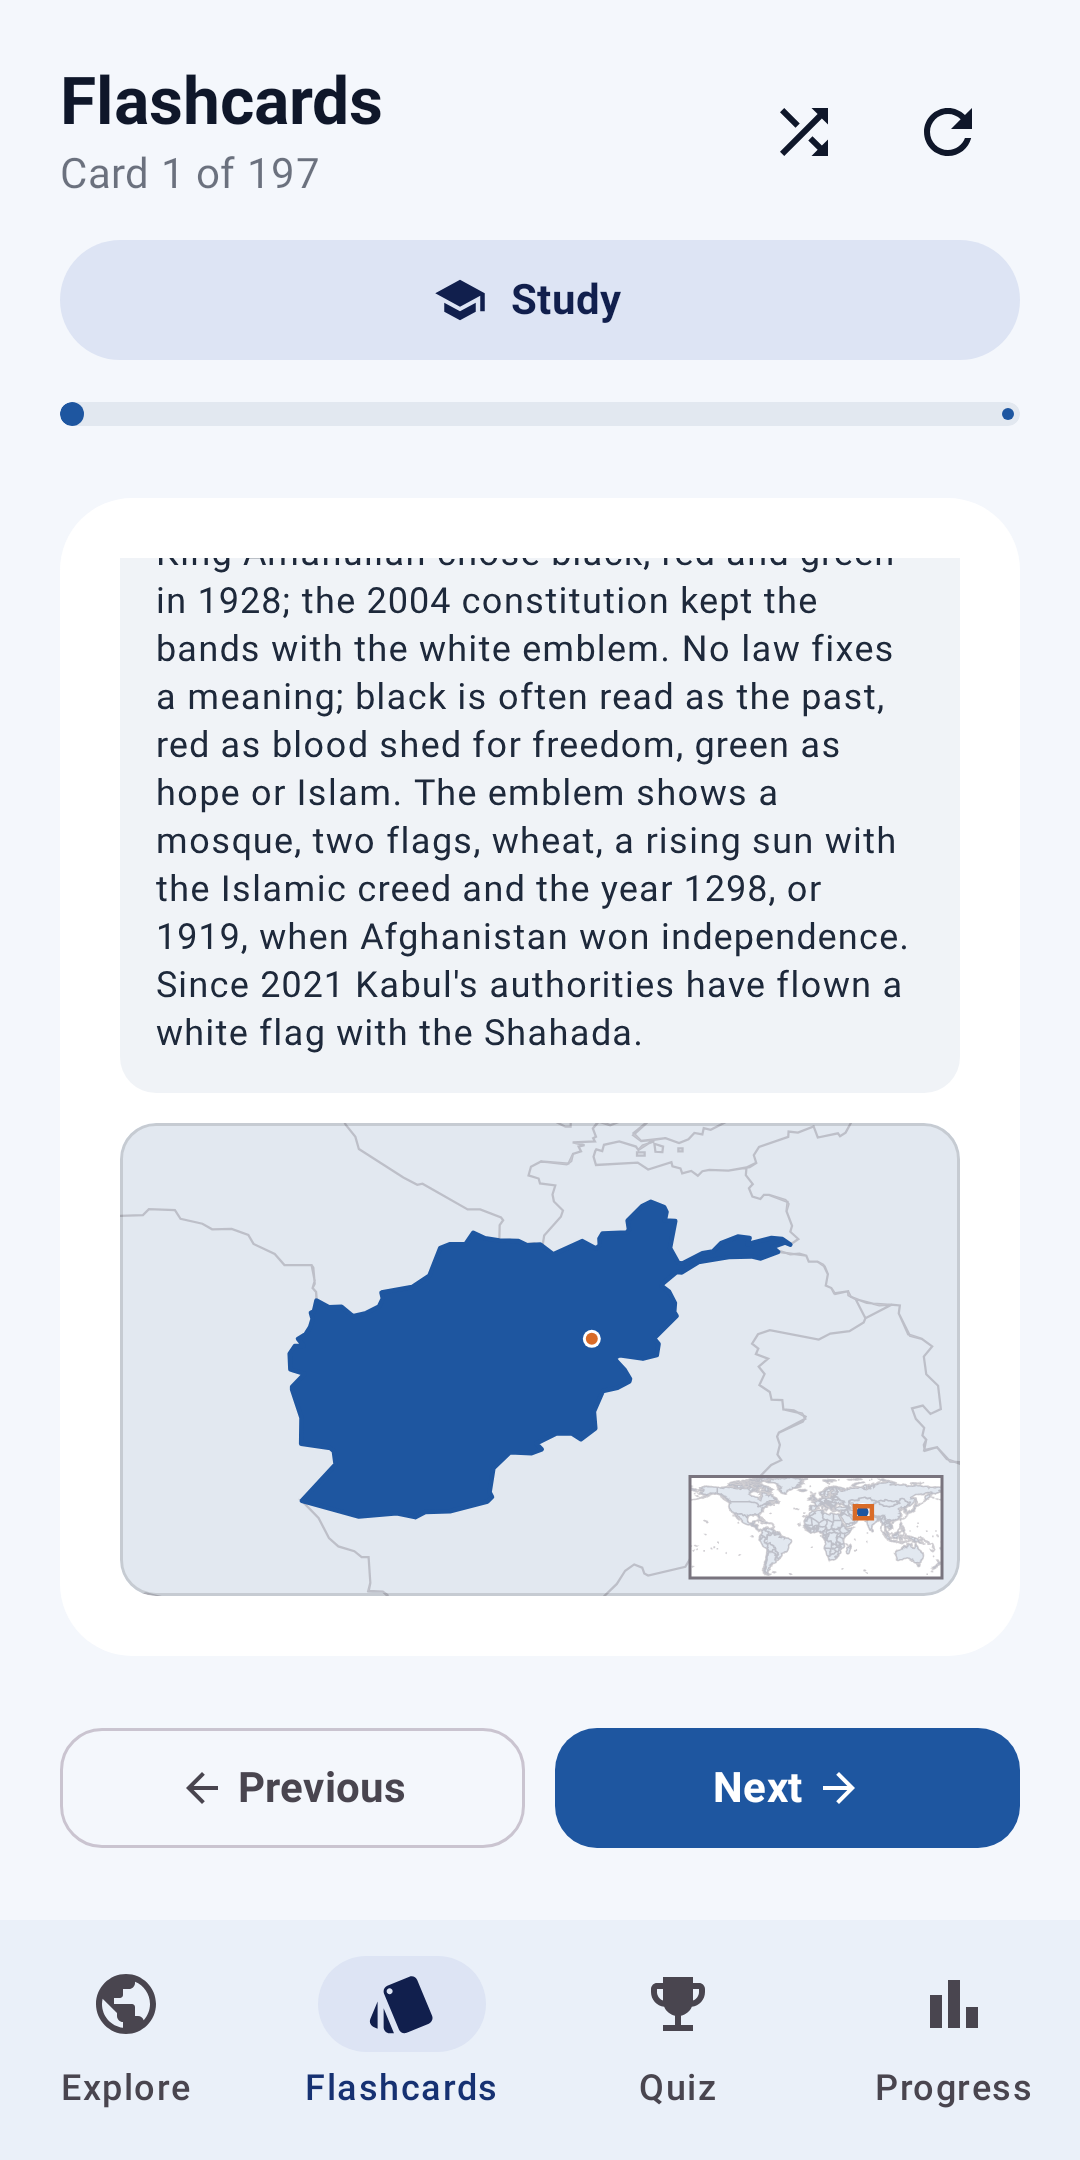
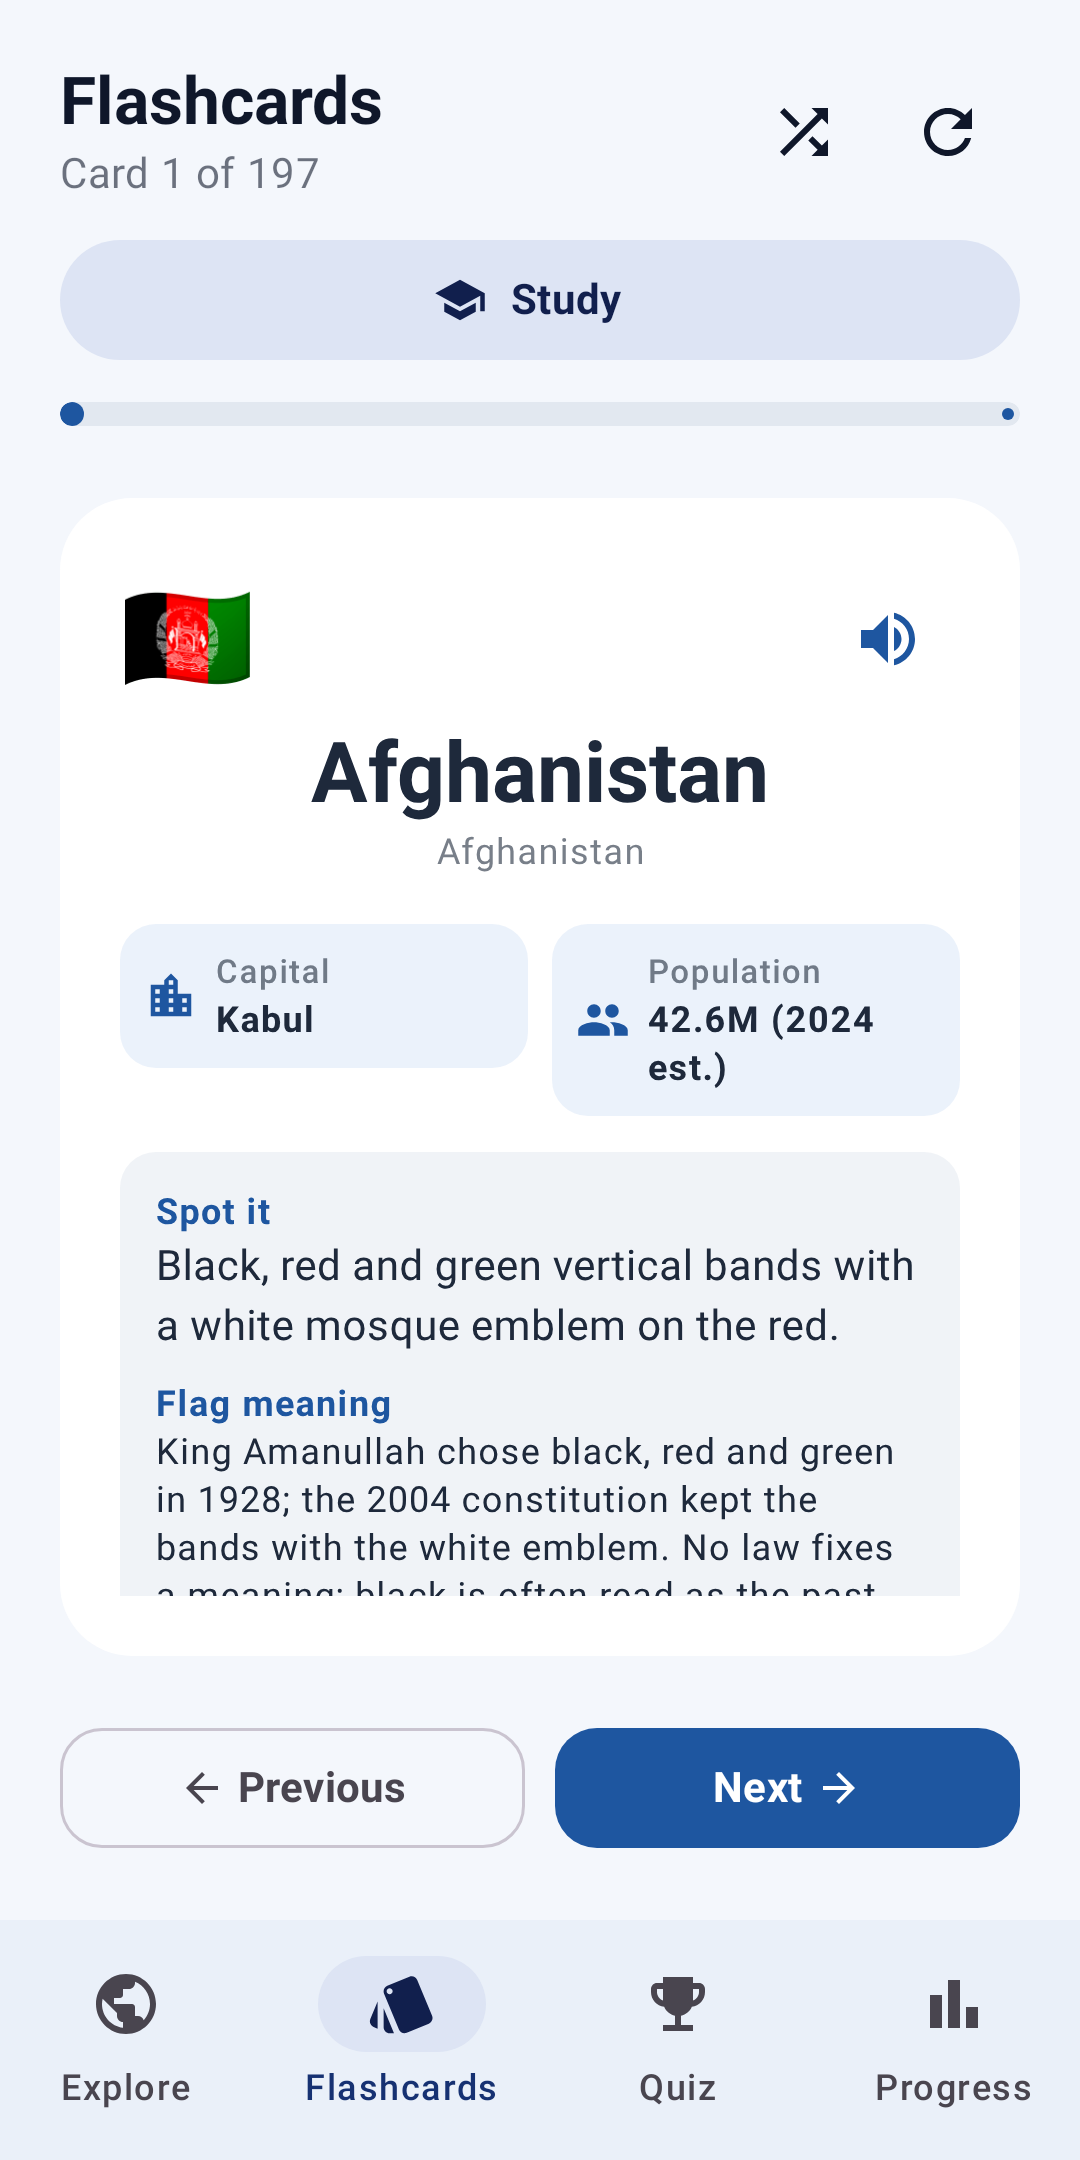
Tidy the store pictures and their check after review
The flashcard shot shows the top of the card's back, with the read-aloud
button ready instead of a spinner; the feature graphic counts the
countries from the catalog and drops "no ads"; store-check takes tablet
shots up to 7,680 px as Play does; the version test reruns when only the
listing or the release notes change.

Claude-Session: https://claude.ai/code/session_01RLSQSDuLv1FnhDenX77LVB

Changed region(s): [[0.0917, 0.2481, 0.8861, 0.7444], [0.7639, 0.3722, 0.825, 0.4032]]

diff --git a/app/src/test/java/com/example/ScreenshotsTest.kt b/app/src/test/java/com/example/ScreenshotsTest.kt
@@ -14,6 +14,7 @@ import com.example.data.local.QuizScoreEntity
 import com.example.data.local.AppDatabase
 import androidx.compose.ui.test.assertIsDisplayed
 import android.graphics.Bitmap
+import android.speech.tts.TextToSpeech
 import androidx.compose.ui.test.junit4.v2.createAndroidComposeRule
 import androidx.compose.ui.test.onNodeWithContentDescription
 import androidx.compose.ui.test.onNodeWithTag
@@ -32,12 +33,14 @@ import com.example.support.drawWindow
 import com.example.support.writePng
 import com.example.support.openTab
 import java.io.File
+import java.util.Locale
 import org.junit.Rule
 import org.junit.Test
 import org.junit.rules.RuleChain
 import org.junit.runner.RunWith
 import org.robolectric.RobolectricTestRunner
 import org.robolectric.shadows.ShadowDialog
+import org.robolectric.shadows.ShadowTextToSpeech
 import android.view.View
 import org.robolectric.annotation.Config
 import org.robolectric.annotation.GraphicsMode
@@ -131,6 +134,7 @@ class ScreenshotsTest {
     @Test
     @Config(qualifiers = "w360dp-h720dp-xxhdpi")
     fun storePhone() {
+        ShadowTextToSpeech.addLanguageAvailability(Locale.US)
         rule.waitForIdle()
         saveStore("01_explore")
 
@@ -169,11 +173,10 @@ class ScreenshotsTest {
         rule.openTab("flashcards")
         rule.onNodeWithTag("flashcard_flip_card").performClick()
         rule.waitForIdle()
-        rule.awaitDelivered { WorldMapData.peek() != null }
-        if (rule.onAllNodesWithTag("flashcard_map", useUnmergedTree = true).fetchSemanticsNodes().isNotEmpty()) {
-            rule.onNodeWithTag("flashcard_map", useUnmergedTree = true).performScrollTo()
-            rule.waitForIdle()
-        }
+        // The engine starts as the screen shows; without its answer the read-aloud button would be a spinner.
+        ShadowTextToSpeech.getLastTextToSpeechInstance()?.let { shadowOf(it).onInitListener.onInit(TextToSpeech.SUCCESS) }
+        rule.waitForIdle()
+        // The top of the back, the name with its capital and population: the map has two shots of its own.
         saveStore("05_flashcard_back")
 
         seedProgress(viewModel)

diff --git a/app/src/test/java/com/example/StoreGraphicsTest.kt b/app/src/test/java/com/example/StoreGraphicsTest.kt
@@ -22,6 +22,7 @@ import androidx.compose.ui.test.junit4.v2.createAndroidComposeRule
 import androidx.compose.ui.text.font.FontWeight
 import androidx.compose.ui.unit.dp
 import androidx.compose.ui.unit.sp
+import com.example.data.model.CountryCatalog
 import com.example.support.drawWindow
 import com.example.support.writePng
 import com.example.ui.theme.DarkPrimary
@@ -80,7 +81,7 @@ class StoreGraphicsTest {
                             fontSize = 30.sp,
                             lineHeight = 38.sp
                         )
-                        Text("196 countries · offline · no ads", color = DarkPrimary, fontSize = 22.sp, fontWeight = FontWeight.Medium)
+                        Text("${countries()} countries · works offline", color = DarkPrimary, fontSize = 22.sp, fontWeight = FontWeight.Medium)
                     }
                 }
             }
@@ -103,6 +104,9 @@ class StoreGraphicsTest {
         }
         save("icon-512", 512, 512, alpha = true)
     }
+
+    /** The countries the app teaches, counted the way Progress counts them: Antarctica is in the catalog but not one. */
+    private fun countries() = CountryCatalog.all.count { it.isSovereign }
 
     @Composable
     private fun FlagRing(modifier: Modifier) =

diff --git a/tools/store-check.py b/tools/store-check.py
@@ -3,10 +3,12 @@
 
     python3 tools/store-check.py [--check]
 
-store/screenshots/: JPEG or 24-bit PNG (8 bits a channel, RGB, no alpha channel and no transparent colour), each side
-320 to 3,840 px and the long side at most twice the short one, at most 8 MB a file. The tablet_* files are the tablet
-screenshots, each side at least 1,080 px; the rest are the phone ones. Play takes up to eight of each kind and needs
-two to publish, so there are two to eight phone screenshots and at most eight tablet ones.
+store/screenshots/: JPEG or 24-bit PNG (8 bits a channel, RGB, no alpha channel and no transparent colour), the long
+side at most twice the short one, at most 8 MB a file. The tablet_* files are the tablet screenshots, each side 1,080
+to 7,680 px; the rest are the phone ones, each side 320 to 3,840 px. For tablets Play also recommends 16:9 or 9:16,
+which makes a listing likelier to be featured on large screens; that is advice, not an upload rule, so it is not
+checked. Play takes up to eight of each kind and needs two to publish, so there are two to eight phone screenshots
+and at most eight tablet ones.
 store/feature-graphic.png: 1,024 x 500 px, JPEG or 24-bit PNG, at most 15 MB.
 store/icon-512.png: 512 x 512 px, 32-bit PNG (RGB with an alpha channel), at most 1,024 KB.
 store/listing.md: the title at most 30 characters, each short description 80, the full description 4,000 and the
@@ -89,9 +91,9 @@ def check_screenshot(path, tablet):
     if kind not in ('png24', 'jpeg'):
         problems.append(f'is a {FORMATS.get(kind, kind)}; Play takes a JPEG or a 24-bit PNG')
     short, long = sorted((width, height))
-    lowest = 1080 if tablet else 320
-    if short < lowest or long > 3840:
-        problems.append(f'is {width}x{height}; each side must be {lowest:,} to 3,840 px')
+    lowest, highest = (1080, 7680) if tablet else (320, 3840)
+    if short < lowest or long > highest:
+        problems.append(f'is {width}x{height}; each side must be {lowest:,} to {highest:,} px')
     if long > 2 * short:
         problems.append(f'is {width}x{height}, {long / short:.2f}:1; the long side can be at most twice the short one')
     if path.stat().st_size > 8 * MB:

diff --git a/README.md b/README.md
@@ -194,9 +194,9 @@ What a Play Store listing needs is in the repository:
 - `store/listing.md`: the title, the short and full descriptions, the "What's new" text, the category and the data
   safety answers.
 - `store/screenshots/`: the store screenshots, written by the `store*` tests of `ScreenshotsTest` to
-  `app/build/screenshots/store/` and copied from there into `store/screenshots/` when they change: eight phone ones at
-  1080×2160 (seven light, one dark; Play takes at most eight for each kind of device) and two tablet ones at 1600×2560, all
-  24-bit PNGs without an alpha channel, the only PNGs Play takes for a screenshot.
+  `app/build/screenshots/store/` and copied from there into `store/screenshots/` when they change: eight phone ones
+  at 1080×2160 (seven light, one dark; Play takes at most eight for each kind of device) and two tablet ones at
+  1600×2560, all 24-bit PNGs without an alpha channel, the only PNGs Play takes for a screenshot.
 - `store/feature-graphic.png` (1024×500, 24-bit) and `store/icon-512.png` (512×512, 32-bit): the feature graphic Play
   needs to publish a listing and the store icon, drawn from the launcher icon's flag ring and navy by
   `StoreGraphicsTest` to `app/build/screenshots/store-graphics/` and copied from there into `store/`.
